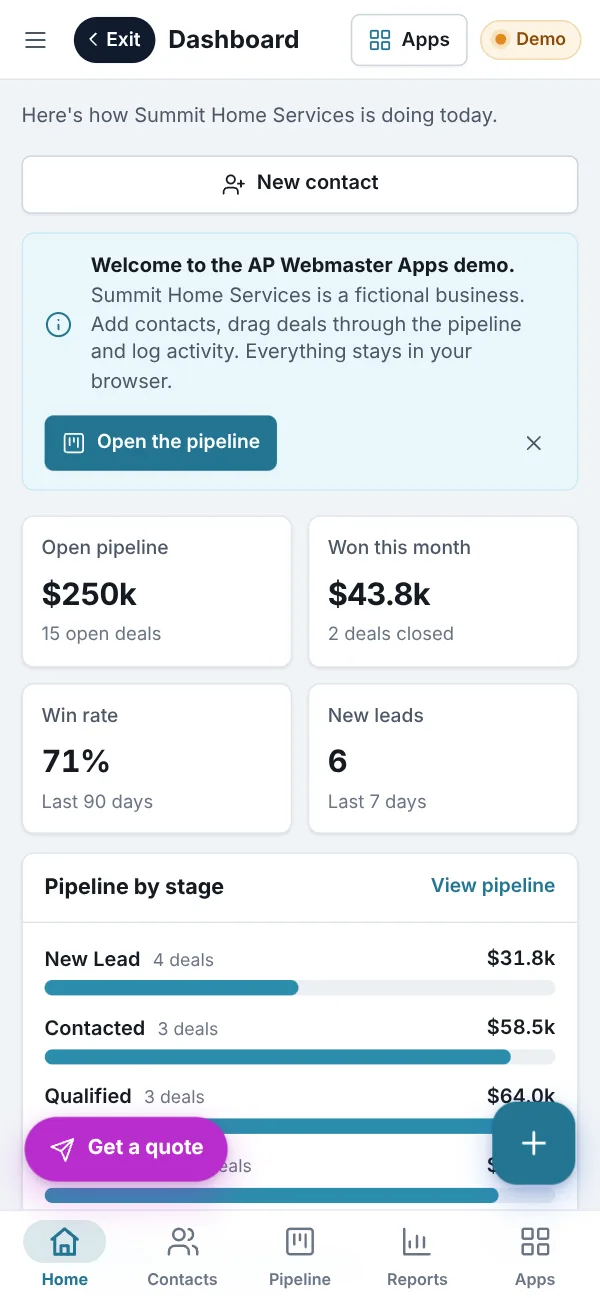
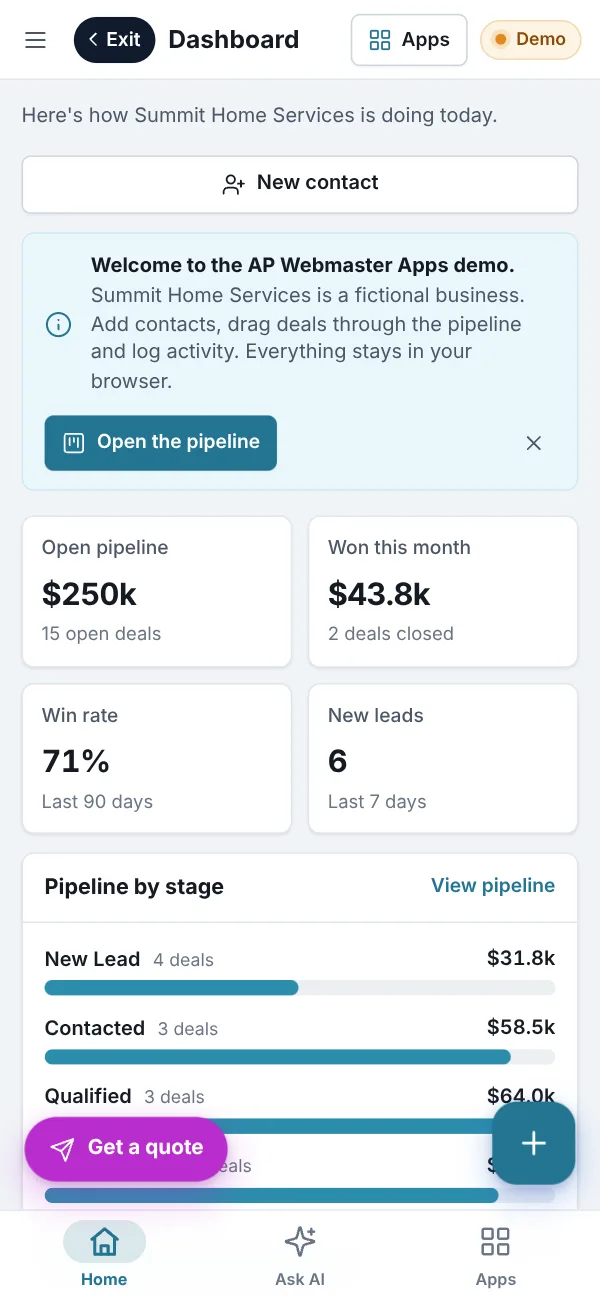
Phone tab bar: Home, Ask AI, Apps on every demo page; retake phone screenshots

diff --git a/assets/js/core/shell.js b/assets/js/core/shell.js
@@ -142,9 +142,10 @@ function tabbar() {
 function renderTabbar(slug) {
   const nav = $('.apwa-tabbar', root);
   if (!nav) return;
-  const mod = moduleFor(slug) || moduleFor('crm') || modules[0];
+  // Same three tabs on every page (Keem, Nov 18): Home, Ask AI, Apps. Each app's own
+  // screens stay one tap away in the menu drawer.
   const tabs = [{ id: 'home', href: router.href(''), label: 'Home', icon: 'home' }];
-  (mod ? (mod.tabs || mod.nav) : []).slice(0, 3).forEach((n) => tabs.push({ id: n.id, href: router.href(n.path), label: n.short || n.label, icon: n.icon }));
+  if (moduleFor('ai-assistant')) tabs.push({ id: 'ai-chat', href: router.href('ai-assistant/chat'), label: 'Ask AI', icon: 'sparkles' });
   nav.innerHTML = html`${tabs.map((t) => html`<a class="apwa-tab" data-nav="${t.id}" href="${t.href}">${icon(t.icon)}<span>${t.label}</span></a>`)}
     <button type="button" class="apwa-tab" data-action="apps-sheet">${icon('grid')}<span>Apps</span></button>`;
 }
